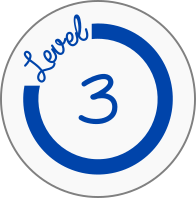
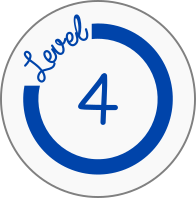
Stylezzz

Changed region(s): [[0.398, 0.3636, 0.6122, 0.6364]]

diff --git a/client/src/pages/selectStudy/selectStudy.ts b/client/src/pages/selectStudy/selectStudy.ts
@@ -29,12 +29,12 @@ export class SelectStudyPage {
 
   // level ids start with 0
   private levels = [
-    { key: 0, text: "Level 1", image: "assets/imgs/level/level_1.png", amount: "-1" },
-    { key: 1, text: "Level 2", image: "assets/imgs/level/level_2.png", amount: "-1" },
-    { key: 2, text: "Level 3", image: "assets/imgs/level/level_3.png", amount: "-1" },
-    { key: 3, text: "Level 4", image: "assets/imgs/level/level_4.png", amount: "-1" },
-    { key: 4, text: "Level 5", image: "assets/imgs/level/level_5.png", amount: "-1" },
-    { key: 5, text: "Level 6", image: "assets/imgs/level/level_6.png", amount: "-1" }
+    { key: 0, text: "Level 1", image: "assets/imgs/level/level_0.png", amount: "-1" },
+    { key: 1, text: "Level 2", image: "assets/imgs/level/level_1.png", amount: "-1" },
+    { key: 2, text: "Level 3", image: "assets/imgs/level/level_2.png", amount: "-1" },
+    { key: 3, text: "Level 4", image: "assets/imgs/level/level_3.png", amount: "-1" },
+    { key: 4, text: "Level 5", image: "assets/imgs/level/level_4.png", amount: "-1" },
+    { key: 5, text: "Level 6", image: "assets/imgs/level/level_5.png", amount: "-1" }
   ];
 
   constructor(public alertCtrl: AlertController,

diff --git a/client/src/pages/selectStudyPopover/selectStudyPopover.html b/client/src/pages/selectStudyPopover/selectStudyPopover.html
@@ -10,7 +10,7 @@
 <ion-content padding class="no-scroll center-content">
 
   <button ion-button class="popoverBtn" (click)="showCardDeck(cardDeckId)" [disabled]="!(this.vocabProvider.getCardDeckForId(cardDeckId).length>0)"><ion-icon name="eye"></ion-icon></button>
-  <button ion-button class="popoverBtn" (click)="studyCardDeck(cardDeckId)" [disabled]="!(this.vocabProvider.getCardDeckForId(cardDeckId).length>0)"><ion-icon name="glasses"></ion-icon></button>
+  <button ion-button class="popoverBtn" (click)="studyCardDeck(cardDeckId)" [disabled]="!(this.vocabProvider.getCardDeckForId(cardDeckId).length>0)"><ion-icon name="play"></ion-icon></button>
   <button ion-button class="popoverBtn" (click)="showRules(cardDeckId)" [disabled]="!(this.vocabProvider.getCardDeckForId(cardDeckId).length>0)"><ion-icon name="bulb"></ion-icon></button>
 
 </ion-content>

diff --git a/client/src/app/app.html b/client/src/app/app.html
@@ -15,7 +15,7 @@
         <ion-icon class="menu_icon" name="home"></ion-icon><span class="menu_item">Home</span>
       </button>
       <button menuClose ion-item (click)="startLearning()">
-        <ion-icon class="menu_icon" name="glasses"></ion-icon><span class="menu_item">Study Due Cards</span> <ion-badge item-end>{{vocabProvider.getCardsToLearn().length}}</ion-badge>
+        <ion-icon class="menu_icon" name="play"></ion-icon><span class="menu_item">Study Due Cards</span> <ion-badge item-end>{{vocabProvider.getCardsToLearn().length}}</ion-badge>
       </button>
       <button menuClose ion-item (click)="showProgress()">
         <ion-icon class="menu_icon" name="stats"></ion-icon><span class="menu_item">Show Progress</span>

diff --git a/client/src/pages/overview/overview.html b/client/src/pages/overview/overview.html
@@ -20,7 +20,7 @@
       </ion-col>
       <ion-col>
         <button ion-button (click)="displayLevel(level)" [disabled]="getCardsOfLevel(level).length == 0">
-          <ion-icon name="search"></ion-icon>
+          <ion-icon name="eye"></ion-icon>
         </button>
         <button ion-button (click)="startLevel(level)" [disabled]="getCardsOfLevel(level).length == 0">
           <ion-icon name="play"></ion-icon>

diff --git a/client/src/pages/overview/overview.ts b/client/src/pages/overview/overview.ts
@@ -33,8 +33,7 @@ export class OverviewPage {
 
   getProgressImage(level: number): string {
     if (!level) level = 0;
-    return "assets/imgs/level/level_" + level + ".png";
-    // return "assets/imgs/progress/progress" + level + ".svg";
+    return "assets/imgs/progress/progress" + level + ".svg";
   }
 
   getNumbersOfCards(arr, value) {
